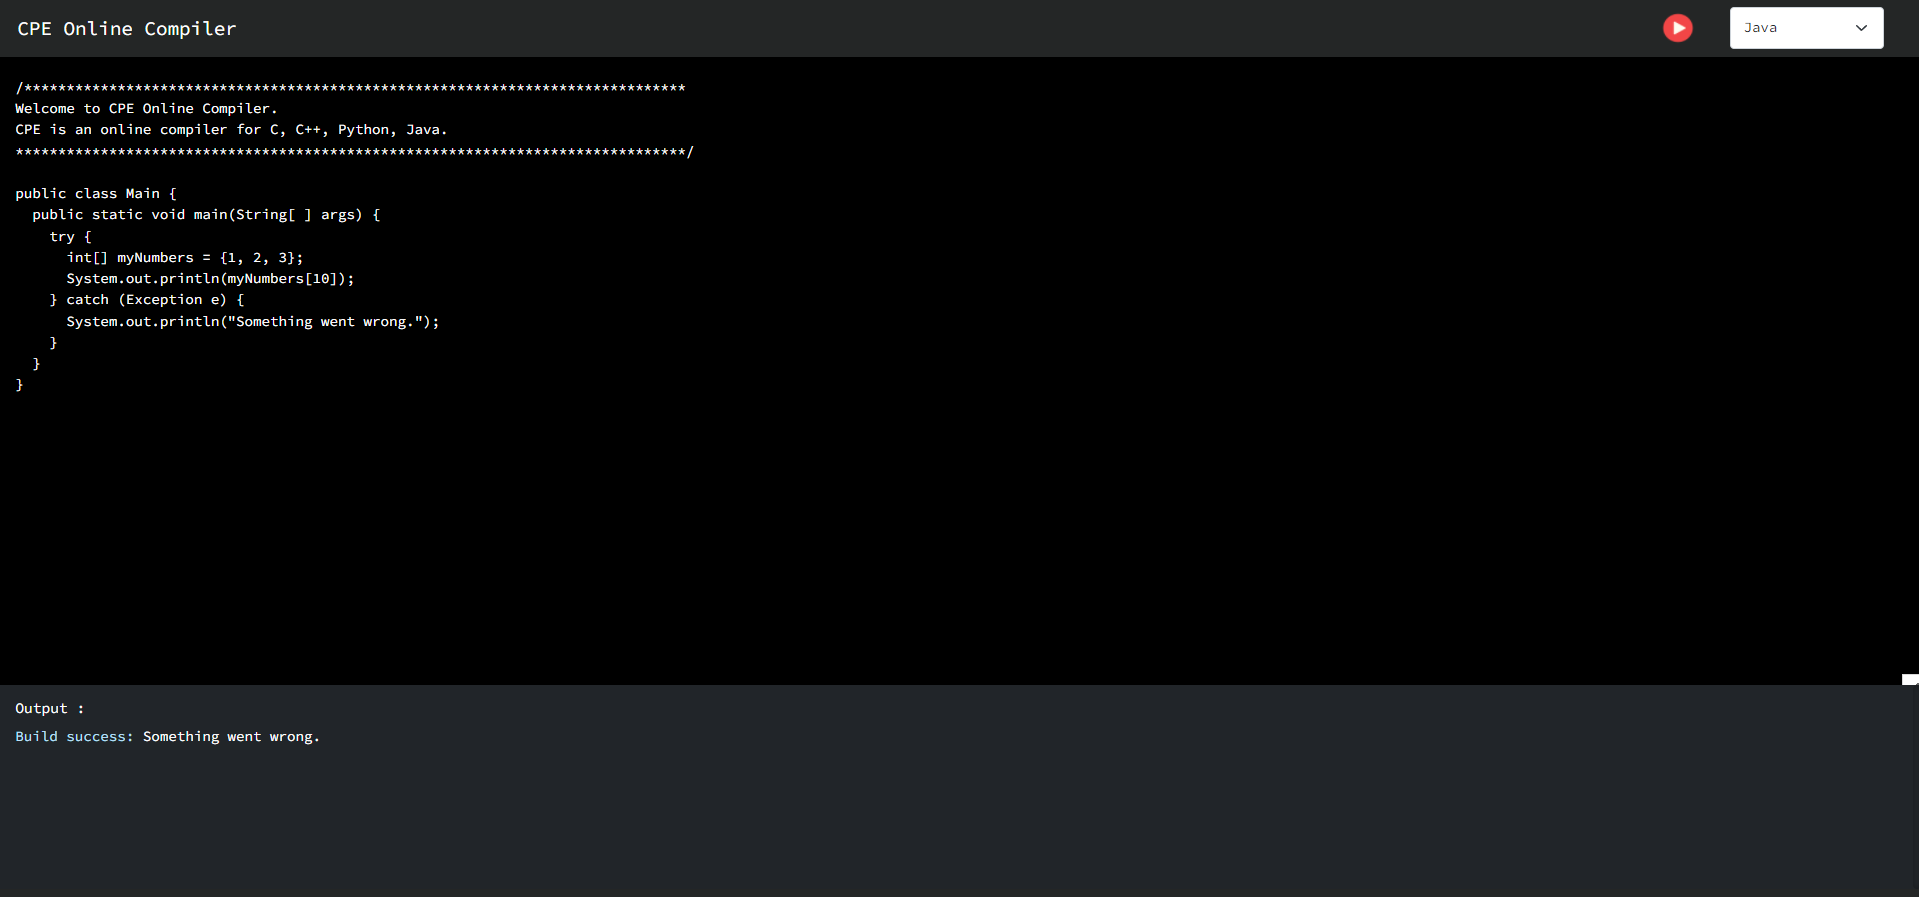
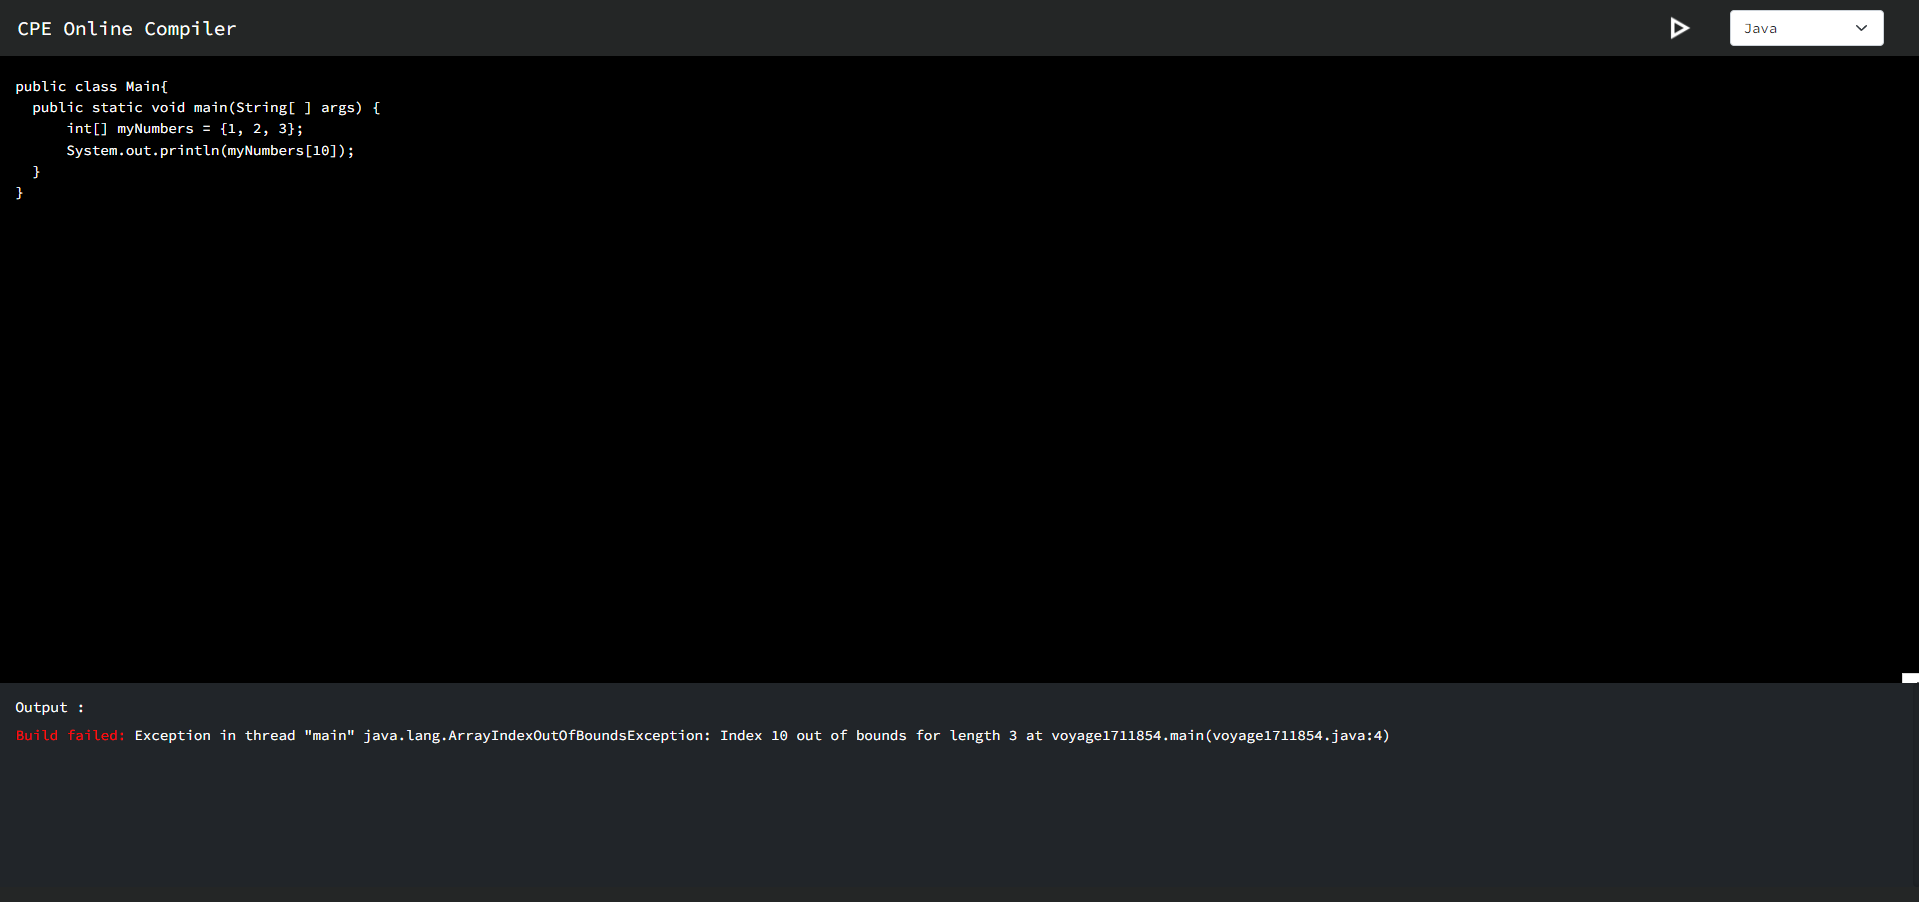
localstorage add language client side

diff --git a/client/src/Navbar.js b/client/src/Navbar.js
@@ -1,5 +1,5 @@
 import React from 'react'
-import run from './assets/play1.png'
+import run from './assets/play.png'
 export const Navbar = (props) => {
     function handleSelect(e){
         props.selectlang(e.target.value)
@@ -9,8 +9,8 @@ export const Navbar = (props) => {
             <div className="container-fluid">
                 <a href="/" className="navbar-brand" style={{ color: 'white' ,fontSize:'18.5px',paddingLeft:'0.25vw'}}>CPE Online Compiler</a>
                 <div style={{display:'flex',flexDirection:'row'}}>
-                    <button onClick={()=>props.run()} style={{backgroundColor:'transparent',outline:'none',border:'none'}}><img src={run} style={{width:'40px',height:'38px'}} alt="" /></button>
-                    <select className="form-select mx-4" style={{ width: '8vw' ,fontSize:'0.85em'}} aria-label="Default select example" onChange={(e)=>handleSelect(e)}>
+                    <button onClick={()=>props.run()} style={{backgroundColor:'transparent',outline:'none',border:'none',width:'fit-content',height:'fit-content'}}><img src={run} style={{width:'40px',height:'36px'}} alt="" /></button>
+                    <select className="form-select mx-4" style={{ width: '8vw' ,fontSize:'0.85em',height:'fit-content',marginTop:'1.9px'}} aria-label="Default select example" onChange={(e)=>handleSelect(e)} value={props.langsel}>
                         <option value="cpp">C++</option>
                         <option value="java">Java</option>
                         <option value="py">Python</option>

diff --git a/client/src/App.js b/client/src/App.js
@@ -36,10 +36,14 @@ function App() {
   }
   useEffect(() => {
     setLoading(true)
-    setLanguage('cpp')
+    if(localStorage.getItem('lang')){
+      setLanguage(localStorage.getItem('lang'))
+    }
+    else setLanguage('cpp')
     setLoading(false)
   }, [])
   useEffect(() => {
+    localStorage.setItem('lang',language)
     if (language === 'cpp') {
       fetch(cppraw)
         .then(function (response) {
@@ -86,7 +90,7 @@ function App() {
           <h6 style={{ width: '50px', position: 'absolute', top: '47.75%', left: '49.74%', zIndex: '999',color:'white' }}>Running</h6></>
         ) : (<></>)
       }
-      <Navbar run={sendCode} selectlang={setProplang}></Navbar>
+      <Navbar run={sendCode} selectlang={setProplang} langsel={language}></Navbar>
       <TextEditor code={setCode} c={code}></TextEditor>
       <Output op={output}></Output>
     </div>

diff --git a/backend/codes/carried1643494.java b/backend/codes/carried1643494.java
@@ -1,0 +1,66 @@
+/******************************************************************************
+Welcome to CPE Online Compiler.
+CPE is an online compiler for C, C++, Python, Java.
+*******************************************************************************/
+
+public class carried1643494
+{
+	public static void main(String[] args) {
+		System.out.println("Hello World");
+	}
+}
+/******************************************************************************
+Welcome to CPE Online Compiler.
+CPE is an online compiler for C, C++, Python, Java.
+*******************************************************************************/
+
+public class Main
+{
+	public static void main(String[] args) {
+		System.out.println("Hello World");
+	}
+}
+/******************************************************************************
+Welcome to CPE Online Compiler.
+CPE is an online compiler for C, C++, Python, Java.
+*******************************************************************************/
+
+public class Main
+{
+	public static void main(String[] args) {
+		System.out.println("Hello World");
+	}
+}
+/******************************************************************************
+Welcome to CPE Online Compiler.
+CPE is an online compiler for C, C++, Python, Java.
+*******************************************************************************/
+
+public class Main
+{
+	public static void main(String[] args) {
+		System.out.println("Hello World");
+	}
+}
+/******************************************************************************
+Welcome to CPE Online Compiler.
+CPE is an online compiler for C, C++, Python, Java.
+*******************************************************************************/
+
+public class Main
+{
+	public static void main(String[] args) {
+		System.out.println("Hello World");
+	}
+}
+/******************************************************************************
+Welcome to CPE Online Compiler.
+CPE is an online compiler for C, C++, Python, Java.
+*******************************************************************************/
+
+public class Main
+{
+	public static void main(String[] args) {
+		System.out.println("Hello World");
+	}
+}

diff --git a/backend/codes/depend1622899.java b/backend/codes/depend1622899.java
@@ -1,0 +1,11 @@
+/******************************************************************************
+Welcome to CPE Online Compiler.
+CPE is an online compiler for C, C++, Python, Java.
+*******************************************************************************/
+
+public class depend1622899
+{
+	public static void main(String[] args) {
+		System.out.println("Eh..!)
+	}
+}

diff --git a/backend/codes/string1653372.java b/backend/codes/string1653372.java
@@ -1,0 +1,11 @@
+/******************************************************************************
+Welcome to CPE Online Compiler.
+CPE is an online compiler for C, C++, Python, Java.
+*******************************************************************************/
+
+public class string1653372
+{
+	public static void main(String[] args) {
+		System.out.println(786);
+	}
+}

diff --git a/backend/codes/night172875.cpp b/backend/codes/night172875.cpp
@@ -1,0 +1,15 @@
+/******************************************************************************
+Welcome to CPE Online Compiler.
+CPE is an online compiler for C, C++, Python, Java.
+*******************************************************************************/
+
+#include <iostream>
+
+using namespace std;
+
+int main()
+{
+    cout<<"Hello World";
+
+    return 0;
+}

diff --git a/backend/codes/factory1718957.java b/backend/codes/factory1718957.java
@@ -1,0 +1,10 @@
+public class merely1225700 {
+  public static void main(String[ ] args) {
+    try {
+      int[] myNumbers = {1, 2, 3};
+      System.out.println(myNumbers[10]);
+    } catch (Exception e) {
+      System.out.println("Something went wrong.");
+    }
+  }
+}

diff --git a/backend/codes/stronger17374.java b/backend/codes/stronger17374.java
@@ -1,0 +1,10 @@
+public class stronger17374{
+  public static void main(String[ ] args) {
+    try {
+      int[] myNumbers = {1, 2, 3};
+      System.out.println(myNumbers[10]);
+    } catch (Exception e) {
+      System.out.println("Something went wrong.");
+    }
+  }
+}

diff --git a/backend/codes/voyage1711854.java b/backend/codes/voyage1711854.java
@@ -1,0 +1,6 @@
+public class voyage1711854{
+  public static void main(String[ ] args) {
+      int[] myNumbers = {1, 2, 3};
+      System.out.println(myNumbers[10]);
+  }
+}

diff --git a/backend/codes/worried1626999.py b/backend/codes/worried1626999.py
@@ -1,0 +1,5 @@
+'''
+Welcome to CPE Online Compiler.
+CPE is an online compiler for C, C++, Python, Java.
+'''
+print ('Hello World')

diff --git a/backend/codes/describe1638957.py b/backend/codes/describe1638957.py
@@ -1,0 +1,5 @@
+'''
+Welcome to CPE Online Compiler.
+CPE is an online compiler for C, C++, Python, Java.
+'''
+print ('Hello mf')

diff --git a/backend/codes/dress174669.java b/backend/codes/dress174669.java
@@ -1,0 +1,5 @@
+public class dress174669{
+  public static void main(String[ ] args) {
+      int[] myNumbers = {1, 2, 3}
+  }
+}
